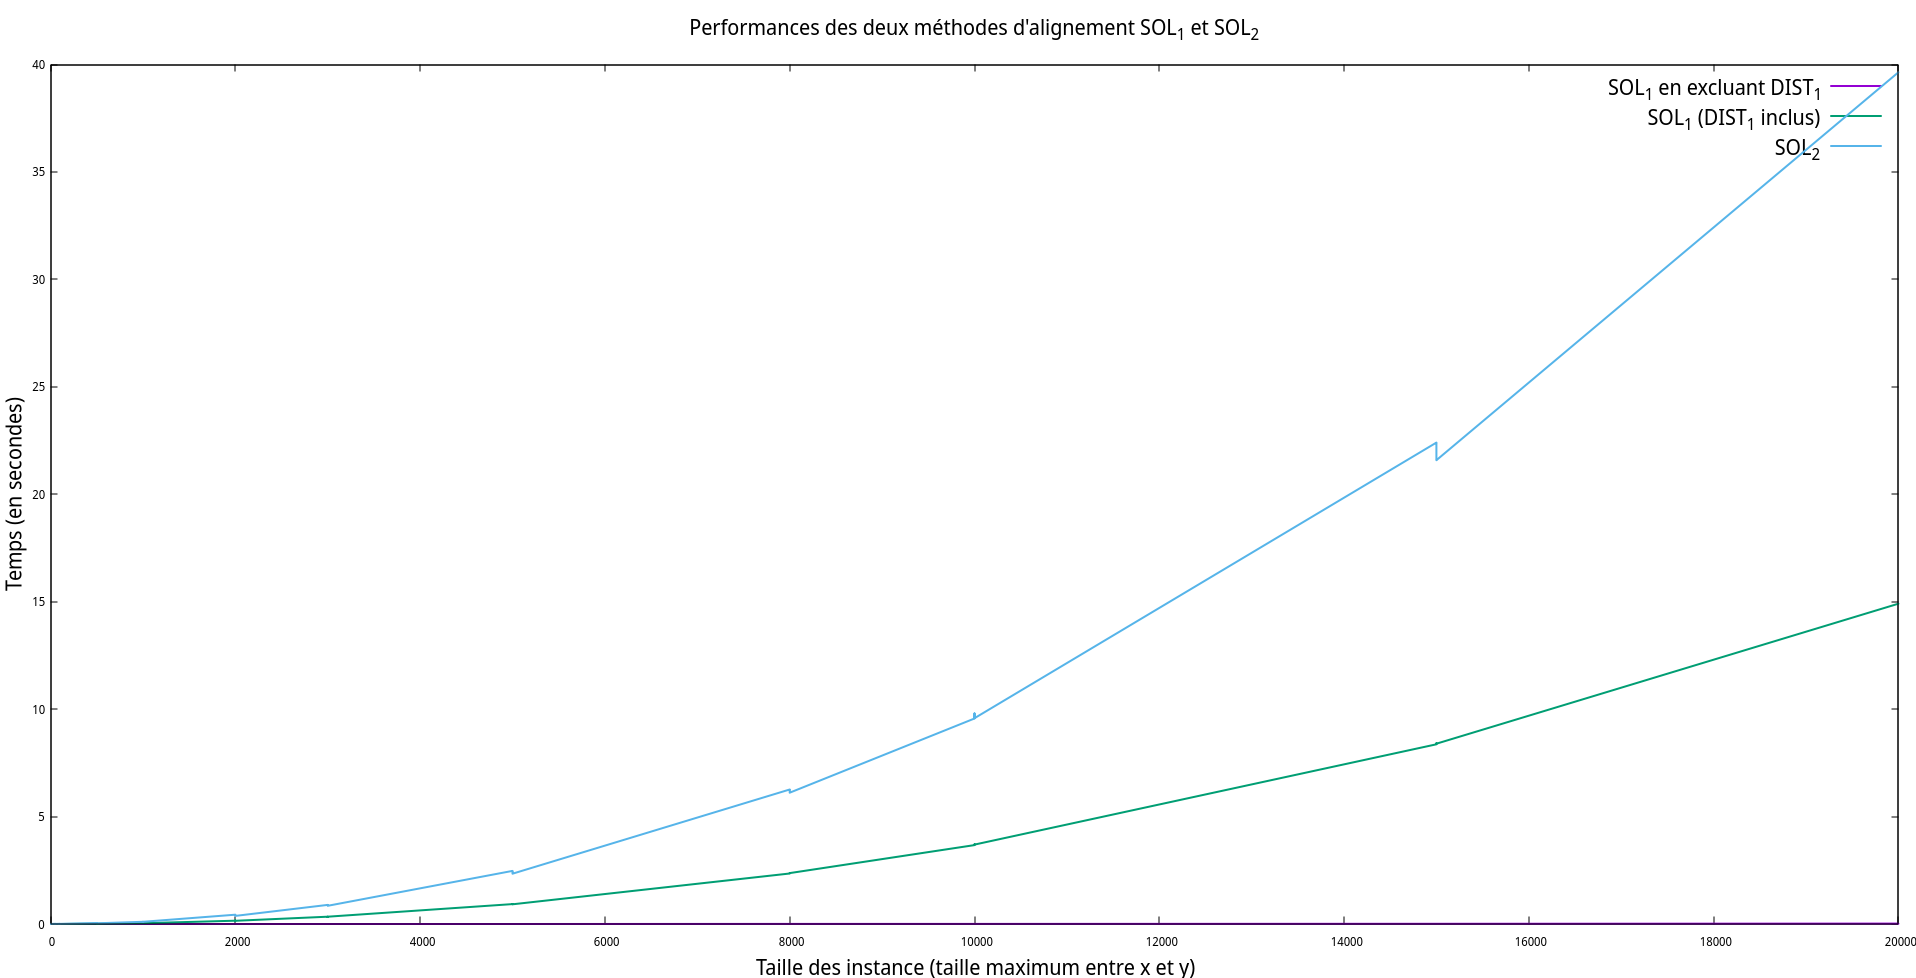
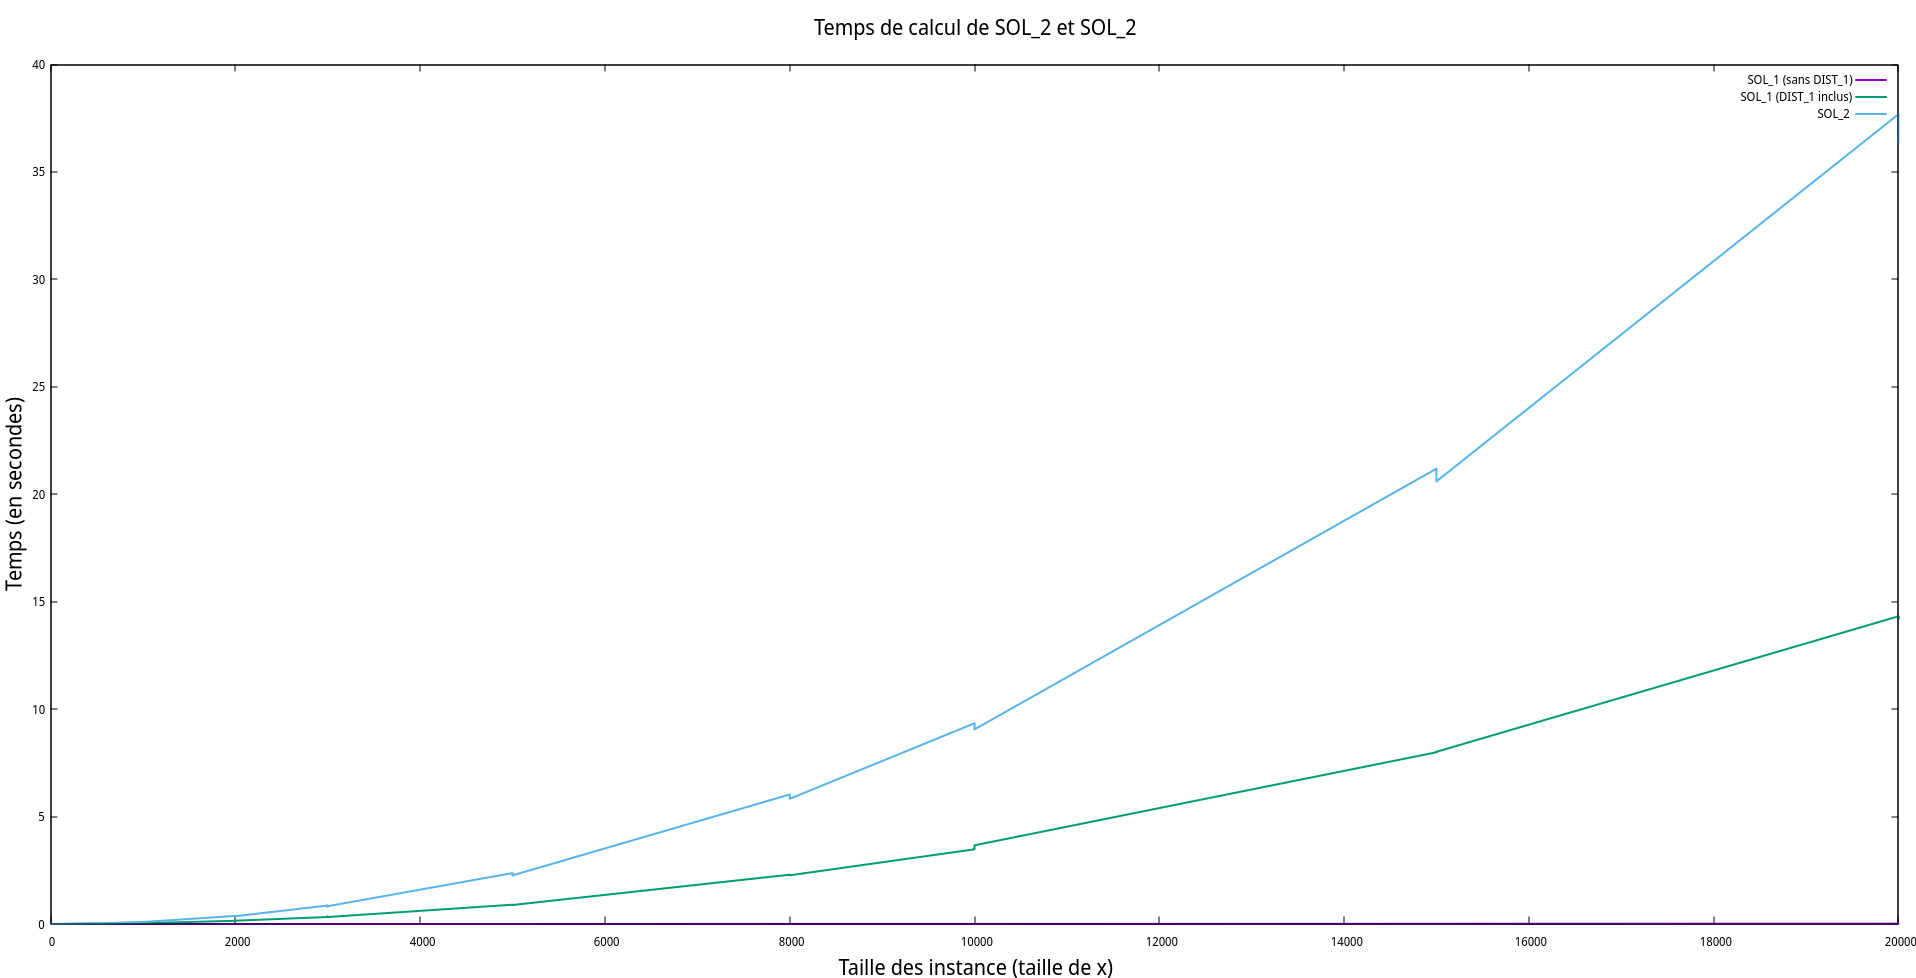
Reran benchmarks for SOL

diff --git a/benchmarks_SOL.py b/benchmarks_SOL.py
@@ -38,7 +38,7 @@ if __name__ == "__main__":
 
         print(f"    SOL_2: {t5 - t4:.5f} seconds.\n")
         
-        benchmarks.append(f"{max(len(x), len(y))} {t3 - t2} {t3 - t1} {t5 - t4}")
+        benchmarks.append(f"{(len(x))} {t3 - t2} {t3 - t1} {t5 - t4}")
 
         i += 1
 
